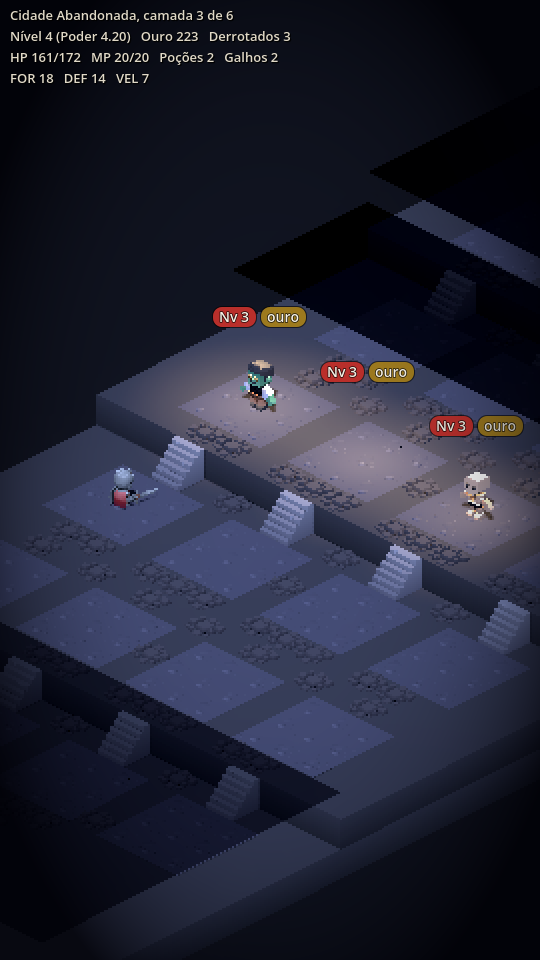
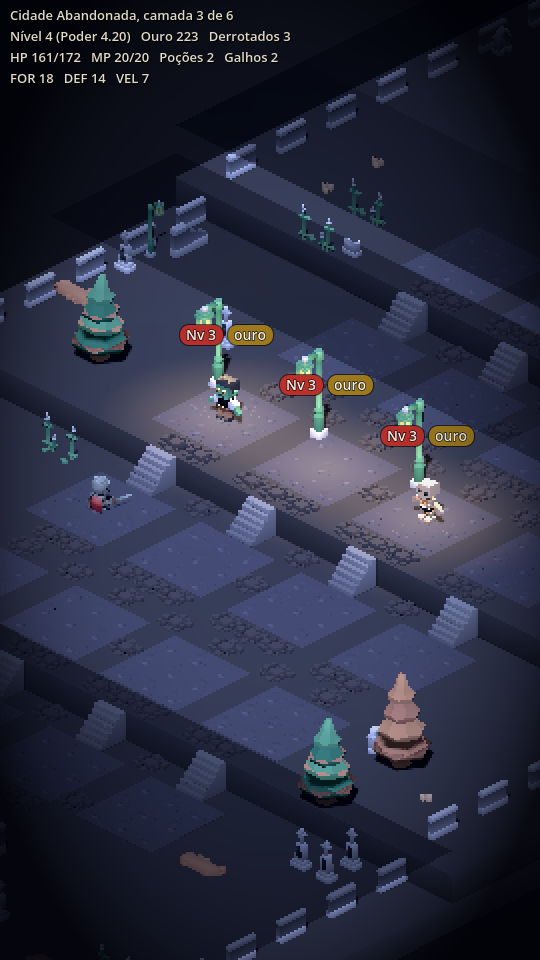
TASK-036: fim da tarja preta do mapa; estudo do nó misterioso e TASK-041 (ADR-0037)

diff --git a/docs/design/ESTUDO-nos-misteriosos.md b/docs/design/ESTUDO-nos-misteriosos.md
@@ -1,0 +1,82 @@
+# Estudo de gameplay: armadilhas como nós e o nó misterioso
+
+| Campo | Valor |
+| --- | --- |
+| Status | Proposto (aguardando decisão do Orlando; recomendação na seção 5) |
+| Escrito em | 2026-11-19 |
+| Origem | Feedback do Orlando ao ver o mapa 3D: "ninguém escolhe cair numa armadilha de bom grado" |
+| GDD | 5, 7, 11, 13, 15 |
+| Tarefa que implementa | TASK-041 |
+
+## 1. O problema
+
+Hoje a **Emboscada** é um destino que o jogador **escolhe de olhos abertos**. O GDD §5 diz que ela aparece avisada no mapa ("Emboscada (age 1º)"): o inimigo começa com Carga cheia e a Bibiana com a Guarda aberta por 1 turno. No código, cerca de 18% das batalhas comuns viram emboscada (e a Maré de azar sobe para 35%).
+
+O que isso causa:
+
+1. **Não é escolha.** Entre "Luta" e "Emboscada (age 1º)", a emboscada é a mesma luta com uma penalidade. Ninguém a escolhe, a não ser que os três destinos sejam ruins. Aí ela pune sem dar escolha.
+2. **Nó virou "o ruim".** O jogador aprende a lê-lo como "fuja disso". A tensão que a emboscada deveria criar (surpresa) some, porque a surpresa foi avisada com antecedência.
+3. **O mapa perde interesse.** Dos três destinos, um é sempre um castigo conhecido. Isso estreita a decisão, em vez de ampliá-la.
+4. **Vai contra a névoa.** O GDD §5 quer destinos legíveis e o que vem depois ofuscado. A emboscada é o único nó cuja informação *deveria* ficar oculta, e é justamente o que mostramos.
+
+Princípio de design: **uma escolha só é interessante quando tem custo e ganho, e o jogador não sabe tudo.** Um nó ruim e conhecido não é escolha; um nó incerto, com ganho possível, é.
+
+## 2. O que outros jogos fazem
+
+| Jogo | Mecânica | Lição |
+| --- | --- | --- |
+| Slay the Spire | Sala "?": pode ser evento, luta, tesouro ou loja, com probabilidades que se ajustam conforme o que saiu antes | O mistério é um **destino escolhido de propósito**, com valor esperado bom e variância |
+| Darkest Dungeon | "Curios": objetos que o jogador decide interagir, com risco e ganho possíveis | O risco é **opcional e visível como risco**, o resultado não |
+| Dark Souls | Baús mímicos | A surpresa funciona porque o baú **parece igual** a um baú; dá para desconfiar por pistas |
+| Hades | A porta mostra o ícone da recompensa e o jogador escolhe pela recompensa | Informação **parcial e boa** (o ganho) guia a decisão; o perigo vem junto |
+| Fear & Hunger | Itens e salas sem garantia, perigo sem aviso explícito | O medo vem de **não saber**, mas o jogo precisa ser justo (aqui: toda morte tem aviso, GDD §7) |
+
+## 3. Opções
+
+**A. Tirar a Emboscada como destino.** Ela vira um modificador oculto de qualquer luta, descoberto ao entrar. Simples, resolve o ponto 1, mas perde o aviso de uma tela exigido pelo GDD §7 se não for tratado.
+
+**B. Nó misterioso "?".** Um destino com tipo desconhecido que se resolve **ao entrar**, sorteado por pesos: evento, **mímico** (luta emboscada com recompensa de baú), tesouro, mercador errante, fogueira abandonada. Tem valor esperado igual ou maior que uma luta comum, para valer o risco.
+
+**C. Baú mímico.** Entre os nós "Baú" visíveis, uma pequena chance de ser um mímico. Funciona se houver **pista detectável**; sem pista, é injusto.
+
+**D. Atalho com armadilha consciente.** Um destino que **mostra** o risco ("Passagem estreita: -X HP, pula 1 camada"). O jogador escolhe a armadilha de propósito porque troca vida por tempo, ouro ou posição. É a única forma de "armadilha visível" que faz sentido.
+
+**E. Pistas.** Ícones e sons ambíguos no mapa (um rato que foge, mancha de sangue, brilho metálico) e o Códice do Santuário revelando mais pistas conforme o jogador aprende. Dá valor ao conhecimento do jogador, não só ao acaso.
+
+## 4. Análise
+
+| Critério | A | B | C | D | E |
+| --- | --- | --- | --- | --- | --- |
+| Resolve "ninguém escolhe de bom grado" | sim | **sim** | em parte | sim (outro tipo de armadilha) | só com B ou C |
+| Mantém a surpresa | sim | **sim** | sim | não, é consciente | reforça |
+| Respeita o GDD §7 (aviso, justiça) | precisa de aviso de uma tela | sim, com o aviso na entrada | precisa de pista | sim | sim |
+| Custo de implementação | baixo | **médio** | baixo | médio | médio |
+| Ajuda a mostrar a névoa do mapa 3D | pouco | **muito** (o "?" é a cara da névoa) | pouco | pouco | muito |
+| Risco de ficar frustrante | médio | baixo, se o valor esperado compensar | alto sem pista | baixo | baixo |
+
+## 5. Recomendação
+
+**B + C + E, e remover a Emboscada visível (A); D fica como ideia para depois.**
+
+1. **O nó "?" substitui a Emboscada e o nó "Evento" como destinos separados.** No mapa, o jogador vê "?" com uma bolha de pista, nunca o tipo. Isso casa com a névoa e com as bolhas do tabuleiro 3D.
+2. **Resolução ao entrar** (pesos iniciais, a calibrar): evento 40%, mímico 25%, tesouro 15%, mercador errante 10%, fogueira abandonada 10%. SORTE desloca peso do mímico para tesouro e mercador; a Maré de azar faz o contrário (hoje ela já aumenta a emboscada em 35%).
+3. **Mímico é uma luta emboscada** (mesmas regras de hoje: o inimigo age primeiro, sem golpe de moeda sem aviso e sem morte instantânea acima de 60% de vida) **com recompensa de baú garantida** e chance de Moeda da Sorte. A surpresa é compensada. O aviso de uma tela do GDD §7 ("o baú se mexe") vira a animação de entrada.
+4. **Pistas (E):** a bolha do "?" mostra 0 a 2 ícones de pista (gota de sangue = luta, brilho = tesouro, sino = evento), reveladas pela SORTE ou pela Lanterna do Viajante (que já revela 1 nó na névoa, GDD §15). O Códice ensina pistas novas depois de o jogador ver cada resultado.
+5. **Baú mímico (C):** só com pista visível (baú com marca de mordida ou brilho estranho), nunca sem sinal.
+6. **Equilíbrio:** o valor esperado do "?" tem de ser maior que o de uma luta comum de mesmo nível, senão volta o problema de ser sempre o nó ruim. O simulador mede isso (bots tratam o "?" por valor esperado).
+
+## 6. Impactos
+
+- **GDD:** §5 (tabela de nós e frequências), §7 (aviso), §11/§13 (mímico como inimigo ou como variante), §15 (Lanterna).
+- **Regras:** `RULES_VERSION` incrementado; `MapNode.Kind` ganha `MYSTERY`; a Emboscada deixa de ser um tipo de nó sorteado pelo gerador do mapa; `Winnability` e os bots passam a tratar o "?".
+- **Dados:** resultados do "?" em `game/data/` (pesos e pistas); ficha do mímico em `docs/enemies/`.
+- **Apresentação:** a praça do "?" no tabuleiro 3D leva um prop de mistério (baú fechado, névoa de pergunta) e o resultado aparece só ao entrar.
+
+## 7. Decisões que dependem do Orlando
+
+1. **Unificar Evento e Emboscada no "?"** (recomendado) ou manter o Evento como destino visível?
+2. **Mímico como inimigo próprio** (nova ficha, modelo próprio) ou como **variante do inimigo comum** (mais barato, usa os modelos que já temos)?
+3. **Quer o atalho com armadilha consciente (D)** como nó, já nesta rodada ou depois?
+4. **Pesos iniciais** da seção 5 estão bons para começar?
+
+Até a decisão, a Emboscada continua como está (nada muda no núcleo). A TASK-041 já está escrita com as respostas recomendadas e só começa depois da TASK-040, a menos que o Orlando antecipe.

diff --git a/docs/tasks/TASK-041-no-misterioso.md b/docs/tasks/TASK-041-no-misterioso.md
@@ -1,0 +1,50 @@
+# TASK-041: nó misterioso "?" no lugar da Emboscada visível
+
+| Campo | Valor |
+| --- | --- |
+| Status | Aberta (não iniciada; aguarda a decisão do Orlando em `docs/design/ESTUDO-nos-misteriosos.md` §7) |
+| Aberta em | 2026-11-19 |
+| Fase | 1, revisão de mecânicas pós-MVP visual |
+| GDD | 5, 7, 11, 13, 15 |
+| ADRs | a criar (ADR-0038 em diante; ver `docs/adr/`) |
+
+## Objetivo
+
+O jogador não escolhe mais uma "Emboscada" de olhos abertos. Entra um destino **"?"** cujo tipo só se resolve ao entrar (evento, mímico, tesouro, mercador errante, fogueira abandonada), com pistas e valor esperado que compensem o risco. Detalhe e justificativa em `docs/design/ESTUDO-nos-misteriosos.md`.
+
+## Fora do escopo
+
+- Atalho com armadilha consciente (opção D do estudo); novos cenários.
+
+## Critérios de aceite
+
+- [ ] Decisão do Orlando registrada (seção 7 do estudo) e ADR criado; sem decisão, vale a recomendação da seção 5.
+- [ ] `MapNode.Kind.MYSTERY`: o gerador do mapa sorteia "?" no lugar da Emboscada e do Evento visíveis (frequência a calibrar, ADR); a Emboscada deixa de ser tipo de nó.
+- [ ] Resolução ao entrar por pesos em `game/data/` (evento 40, mímico 25, tesouro 15, mercador 10, fogueira abandonada 10), deslocados por SORTE e Maré de azar, com os quatro fluxos de RNG do núcleo.
+- [ ] **Mímico:** luta emboscada pelas regras de hoje (age primeiro, sem golpe de moeda sem aviso, sem morte instantânea acima de 60% de vida), com recompensa de baú garantida; aviso de uma tela ao entrar. Ficha em `docs/enemies/` e modelo (variante do inimigo comum ou próprio, decisão 2).
+- [ ] **Pistas:** a bolha do "?" mostra 0 a 2 pistas reveladas por SORTE ou pela Lanterna do Viajante; testes de que a pista corresponde ao resultado.
+- [ ] Valor esperado do "?" maior ou igual ao de uma luta comum de mesmo nível (simulador, `--map-check 40` ou mais); mapa continua vencível (GDD §5).
+- [ ] Mapa 3D mostra o "?" (prop de mistério, sem revelar o tipo) e o resultado aparece só ao entrar; print anexado.
+- [ ] `RULES_VERSION` incrementado; GDD §5, §7, §11, §13 e §15 atualizados no mesmo commit; testes; suíte verde; HANDOFF atualizado.
+
+## Arquivos afetados
+
+- `game/core/map/` (`map_node`, `map_generator`, `map_rules`), `game/core/run/` (`run_state`, `run_rules`, `winnability`), `game/core/sim/run_bot.gd`, `game/data/`, `docs/enemies/`, `game/presentation/map/map_view.gd`, `game/presentation/map3d/`, `docs/GDD.md`
+
+## Testes esperados
+
+- Determinismo do "?" pela semente; pesos respeitam SORTE e Maré de azar; o mímico respeita as regras de justiça do GDD §7; o mapa gerado nunca tem Emboscada visível; vencibilidade do mapa com "?".
+
+## Regras que esta tarefa não pode quebrar
+
+- Mudança de regra: ADR, GDD atualizado no mesmo commit e `RULES_VERSION` incrementado.
+- Núcleo sem nós e sem aleatoriedade global; sorteio só pelos quatro fluxos.
+- Toda morte tem aviso (GDD §7).
+
+## Verificação
+
+Ainda não executada.
+
+## Revisão cruzada
+
+Pendente.

diff --git a/docs/HANDOFF.md b/docs/HANDOFF.md
@@ -119,7 +119,8 @@ Ordem sugerida; cada item tem arquivo de tarefa ou é feito pelo Orlando. Antes 
 | 13 | TASK-014 | Exportação Web e Android e sessão de 20 minutos no celular | **Orlando** | templates, JDK e SDK só na máquina dele |
 | 14 | TASK-032 | Calibrar números com o `telemetry.log` do Orlando (ouro, Coveiro, moeda por luta, mortes) | agente, depois da TASK-040 e do playtest | os bots não jogam como uma pessoa; só depois de o Orlando jogar o MVP com gráficos e som |
 | 15 | TASK-033 | Portão da Fase 1: fechar o MVP e abrir o roteiro da Fase 2 | Orlando e agente | depois das TASK-014, 032 e 040 |
-| 16 | monetização | Anúncio de verdade, o que o anúncio faz com a moeda, vender Moeda da Sorte? | Orlando decide | GDD §16; hoje o anúncio do baú é simulado |
+| 16 | TASK-041 | Nó misterioso "?" no lugar da Emboscada visível (estudo em `docs/design/ESTUDO-nos-misteriosos.md`) | Orlando decide, agente implementa | a emboscada avisada não é escolha de ninguém; depois da TASK-040, ou antes se o Orlando pedir |
+| 17 | monetização | Anúncio de verdade, o que o anúncio faz com a moeda, vender Moeda da Sorte? | Orlando decide | GDD §16; hoje o anúncio do baú é simulado |
 
 Regra do pedido: ao fim de cada tarefa, parar e mostrar o resumo.
 

diff --git a/docs/GDD.md b/docs/GDD.md
@@ -138,7 +138,7 @@ A Bibiana escolhe um de três destinos por camada, e só esses três mostram o t
 | Fogueira | Garantida (seção 12) | Nunca duas fogueiras ligadas entre si |
 | Mini boss | 0 ou 1 por cenário (chance cresce com a profundidade; ADR-0033) | Anunciado pelo sino rachado na segunda metade do mapa. Recompensa rara, Galhos Secos e Moeda da Sorte garantidos |
 | Chefe | 1 por cenário | Nó final |
-| Inimigo emboscado | 18% (restante) | Avisado no mapa ("Emboscada (age 1º)"): o inimigo começa com Carga cheia (age primeiro, sem golpe de moeda sem aviso) e a Bibiana inicia com Guarda aberta (DEF -20%) por 1 turno (ADR-0032) |
+| Inimigo emboscado | 18% (restante) | **Em revisão (TASK-041, `docs/design/ESTUDO-nos-misteriosos.md`): a emboscada avisada não é escolha; a proposta é o nó "?".** Hoje: avisado no mapa ("Emboscada (age 1º)"): o inimigo começa com Carga cheia (age primeiro, sem golpe de moeda sem aviso) e a Bibiana inicia com Guarda aberta (DEF -20%) por 1 turno (ADR-0032) |
 
 Os valores são ponto de partida para o protótipo; a seção 23 explica como calibrar.
 
